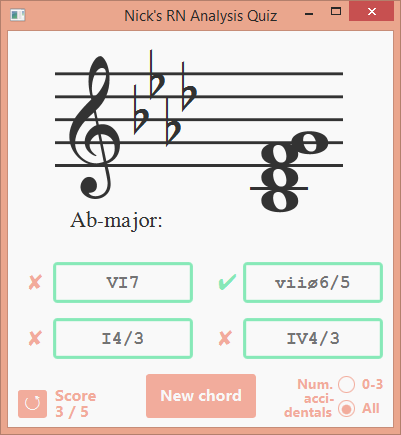
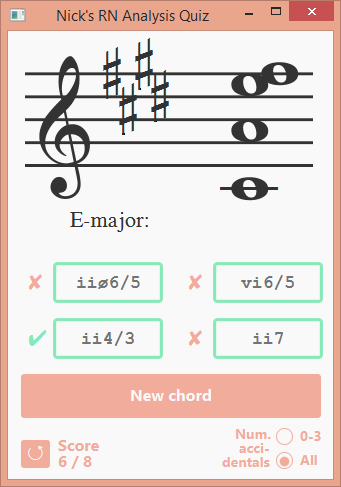
Updated interface.

diff --git a/ChordGenerator/ChordGeneratorGUI.java b/ChordGenerator/ChordGeneratorGUI.java
@@ -20,15 +20,6 @@
 *
 *	Common applied chords: in minor: VII7 == V7 / III, V7 / i
 *
-*	Add timer? Add score? Add average time per question [from generate button clicked to
-*	correct answer answered]? Wrong attempts vs correct attempts? "Challenge mode"?
-*	Radiobuttons: triads only, 7ths only, both(random). clef: treble only, bass only, both(random);
-*
-*	Modes: hard (4-7 accidentals only), intermediate (0-3 accidentals), all accidentals.
-*
-*	Add some kind of checkmark/wrong red X to incorrect responses/correct answers
-*
-*
 */
 
 import java.util.*;
@@ -234,6 +225,11 @@ public class ChordGeneratorGUI extends Application {
 		difficultyRadios = new ToggleGroup();
 		easyRadio.setToggleGroup(difficultyRadios);
 		hardRadio.setToggleGroup(difficultyRadios);
+	//	musicStaffGridPane.setScaleX(musicStaffGridPane.getScaleX() * 1.1);
+	//	musicStaffGridPane.setScaleY(musicStaffGridPane.getScaleY() * 1.1);
+	//	myGridPane.setScaleX(musicStaffGridPane.getScaleX() * 1.2);
+	//	myGridPane.setScaleY(musicStaffGridPane.getScaleY() * 1.2);
+
 
 		//add to GridPanes
 		//myGridPane.add(questionLabel, 0, 0);
@@ -283,15 +279,15 @@ public class ChordGeneratorGUI extends Application {
 		myGridPane.add(answerButton3, 1, 5);
 		myGridPane.add(dLabel, 2, 5);
 		myGridPane.add(answerButton4, 3, 5);
-		myGridPane.add(scoreLabel, 0, 6);
-		myGridPane.add(scorePointsLabel, 0, 6);
-		myGridPane.add(refreshButton, 0, 6);
-		myGridPane.add(generateChordButton, 1, 6);
-		myGridPane.add(numLabel, 3, 6);
-		myGridPane.add(acciLabel, 3, 6);
-		myGridPane.add(dentalsLabel, 3, 6);
-		myGridPane.add(easyRadio, 3, 6);
-		myGridPane.add(hardRadio, 3, 6);
+		myGridPane.add(generateChordButton, 0, 6);
+		myGridPane.add(scoreLabel, 0, 7);
+		myGridPane.add(scorePointsLabel, 0, 7);
+		myGridPane.add(refreshButton, 0, 7);
+		myGridPane.add(numLabel, 3, 7);
+		myGridPane.add(acciLabel, 3, 7);
+		myGridPane.add(dentalsLabel, 3, 7);
+		myGridPane.add(easyRadio, 3, 7);
+		myGridPane.add(hardRadio, 3, 7);
 		//myGridPane.add(correctMsgLabel, 0, 7);
 		//myGridPane.add(notesLabel, 0, 8);
 
@@ -302,7 +298,7 @@ public class ChordGeneratorGUI extends Application {
 		GridPane.setColumnSpan(questionLabel, 4);
 		GridPane.setColumnSpan(keyLabel, 4);
 		GridPane.setColumnSpan(correctMsgLabel, 4);
-		GridPane.setColumnSpan(generateChordButton, 3);
+		GridPane.setColumnSpan(generateChordButton, 4);
 		GridPane.setColumnSpan(scoreLabel, 2);
 		GridPane.setColumnSpan(scorePointsLabel, 2);
 		GridPane.setColumnSpan(refreshButton, 2);
@@ -313,17 +309,13 @@ public class ChordGeneratorGUI extends Application {
 		GridPane.setHalignment(correctMsgLabel, HPos.CENTER);
 		GridPane.setHalignment(keyLabel, HPos.LEFT);
 		GridPane.setHalignment(notesLabel, HPos.CENTER);
-		answerButton1.setMinWidth(140);
-		answerButton2.setMinWidth(140);
-		answerButton3.setMinWidth(140);
-		answerButton4.setMinWidth(140);
 		GridPane.setHalignment(aLabel, HPos.LEFT);
 		GridPane.setHalignment(bLabel, HPos.RIGHT);
 		GridPane.setHalignment(cLabel, HPos.LEFT);
 		GridPane.setHalignment(dLabel, HPos.RIGHT);;
 		questionLabel.setPadding(new Insets(0, 0, 20, 0));
 		keyLabel.setTranslateX(52);
-		musicStaffGridPane.setTranslateX(37);
+		musicStaffGridPane.setTranslateX(7);
 
 		//tediousness
 		fSharp.setTranslateY(-60);		fSharp.setTranslateX(-20);
@@ -369,6 +361,7 @@ public class ChordGeneratorGUI extends Application {
 		for (Button b: answerButtonArray) {
 			b.setId("answerButtons");
 			b.setFont(Font.font("Courier New", FontWeight.BOLD, 18));
+			b.setMinWidth(110);
 		}
 		//myGridPane.setStyle("-fx-background-color: white; -fx-stroke: #737374");
 		trebleClef.setFont(musicFont120);
@@ -388,25 +381,26 @@ public class ChordGeneratorGUI extends Application {
 		refreshButton.setFont(Font.loadFont(getClass().getResourceAsStream("FreeSerif.ttf"), 20));
 		refreshButton.setPadding(new Insets(0, 4, 0, 4));
 		scoreLabel.setTranslateY(0);
-		scoreLabel.setTranslateX(37);
+		scoreLabel.setTranslateX(40);
 		scorePointsLabel.setTranslateY(16);
-		scorePointsLabel.setTranslateX(37);
+		scorePointsLabel.setTranslateX(40);
 		refreshButton.setTranslateY(8);
+		refreshButton.setTranslateX(3);
 		numLabel.setId("numAccidentals");
 		acciLabel.setId("numAccidentals");
 		dentalsLabel.setId("numAccidentals");
 		numLabel.setTranslateY(-12);
-		numLabel.setTranslateX(54);
+		numLabel.setTranslateX(22);
 		acciLabel.setTranslateY(2);
-		acciLabel.setTranslateX(61);
+		acciLabel.setTranslateX(26);
 		dentalsLabel.setTranslateY(16);
-		dentalsLabel.setTranslateX(41);
+		dentalsLabel.setTranslateX(9);
 		easyRadio.setId("difficulty");
 		hardRadio.setId("difficulty");
-		easyRadio.setTranslateY(-12);
-		easyRadio.setTranslateX(94);
-		hardRadio.setTranslateY(12);
-		hardRadio.setTranslateX(94);
+		easyRadio.setTranslateY(-10);
+		easyRadio.setTranslateX(62);
+		hardRadio.setTranslateY(14);
+		hardRadio.setTranslateX(62);
 		hardRadio.setSelected(true);
 		keyLabel.setFont(Font.loadFont(getClass().getResourceAsStream("FreeSerif.ttf"), 22));
 		questionLabel.setFont(Font.font(null, 18));
@@ -421,7 +415,7 @@ public class ChordGeneratorGUI extends Application {
 		}
 		generateChordButton.setFont(Font.font(null, FontWeight.BOLD, 16));
 		generateChordButton.setId("gcButton");
-		generateChordButton.setTranslateX(-17);
+		generateChordButton.setMaxWidth(300);
 
 		//set Listeners
 		generateChordButton.setOnAction((ActionEvent e) -> {
@@ -523,12 +517,14 @@ public class ChordGeneratorGUI extends Application {
 
 		//set up scene/stage
 		getRandomChord();
-		scene = new Scene(myGridPane);
+		scene = new Scene(myGridPane, 325, 448);
 		scene.getStylesheets().add("CGStyles.css");
 		generateChordButton.requestFocus();
 		primaryStage.setTitle("Nick's RN Analysis Quiz");
 		primaryStage.setScene(scene);
 		primaryStage.show();
+	//	System.out.println(scene.getWidth());
+	//	System.out.println(scene.getHeight());
 	}
 
 	//accidental == true means use sharps. accidental == false means use flats.
